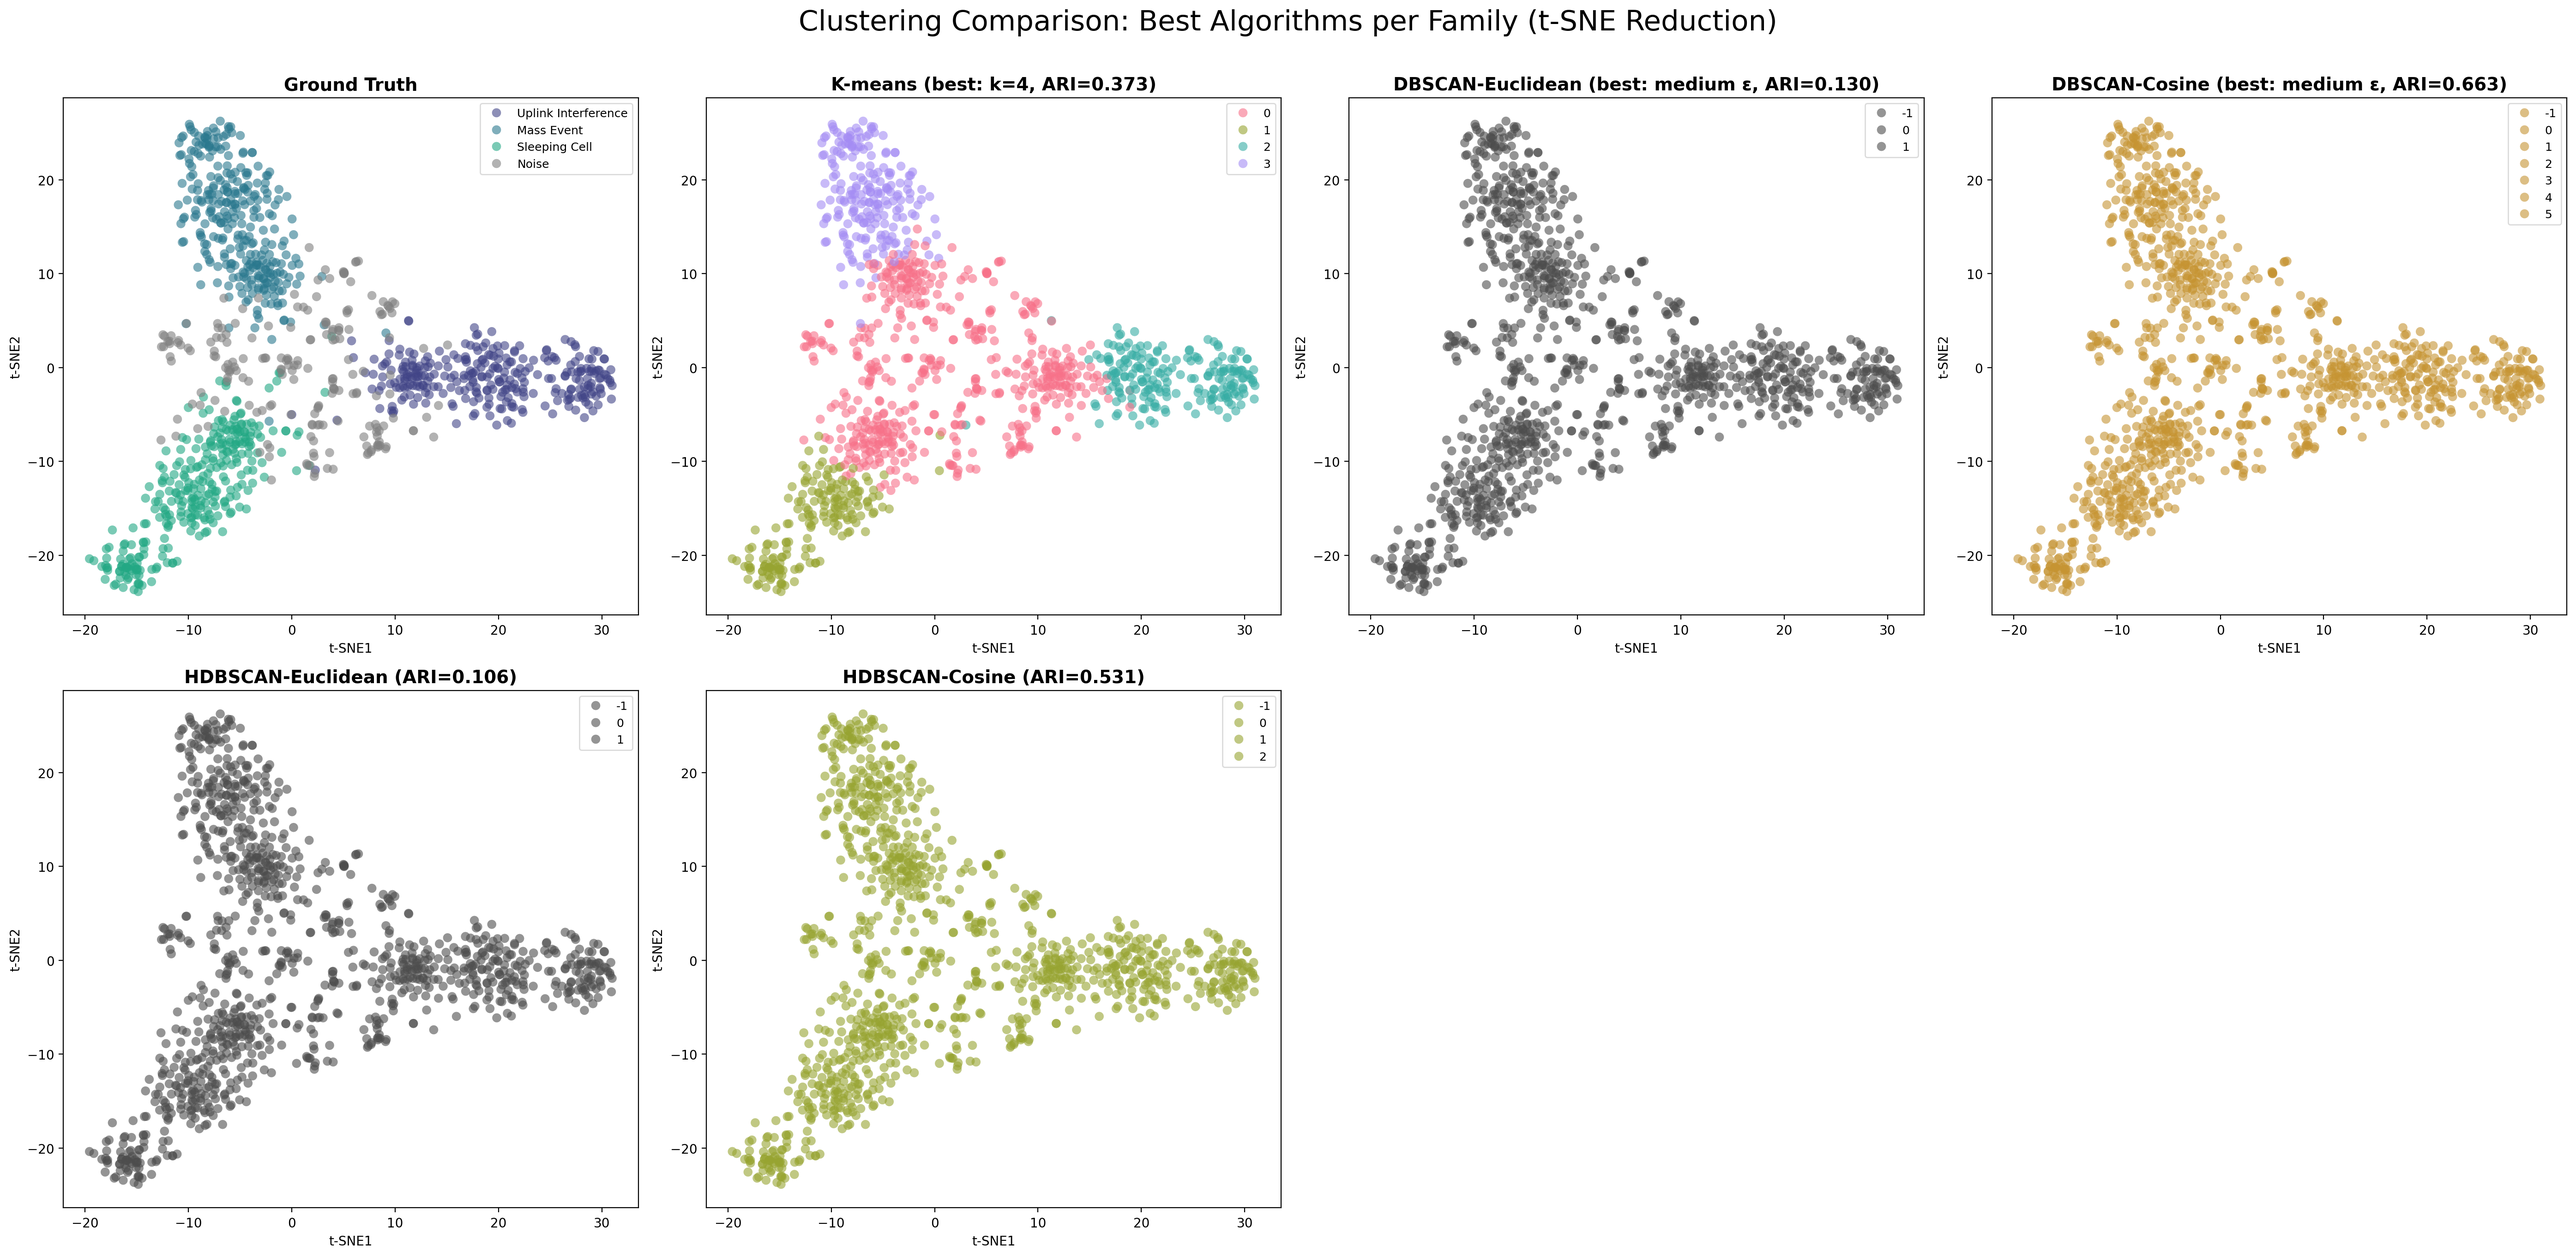
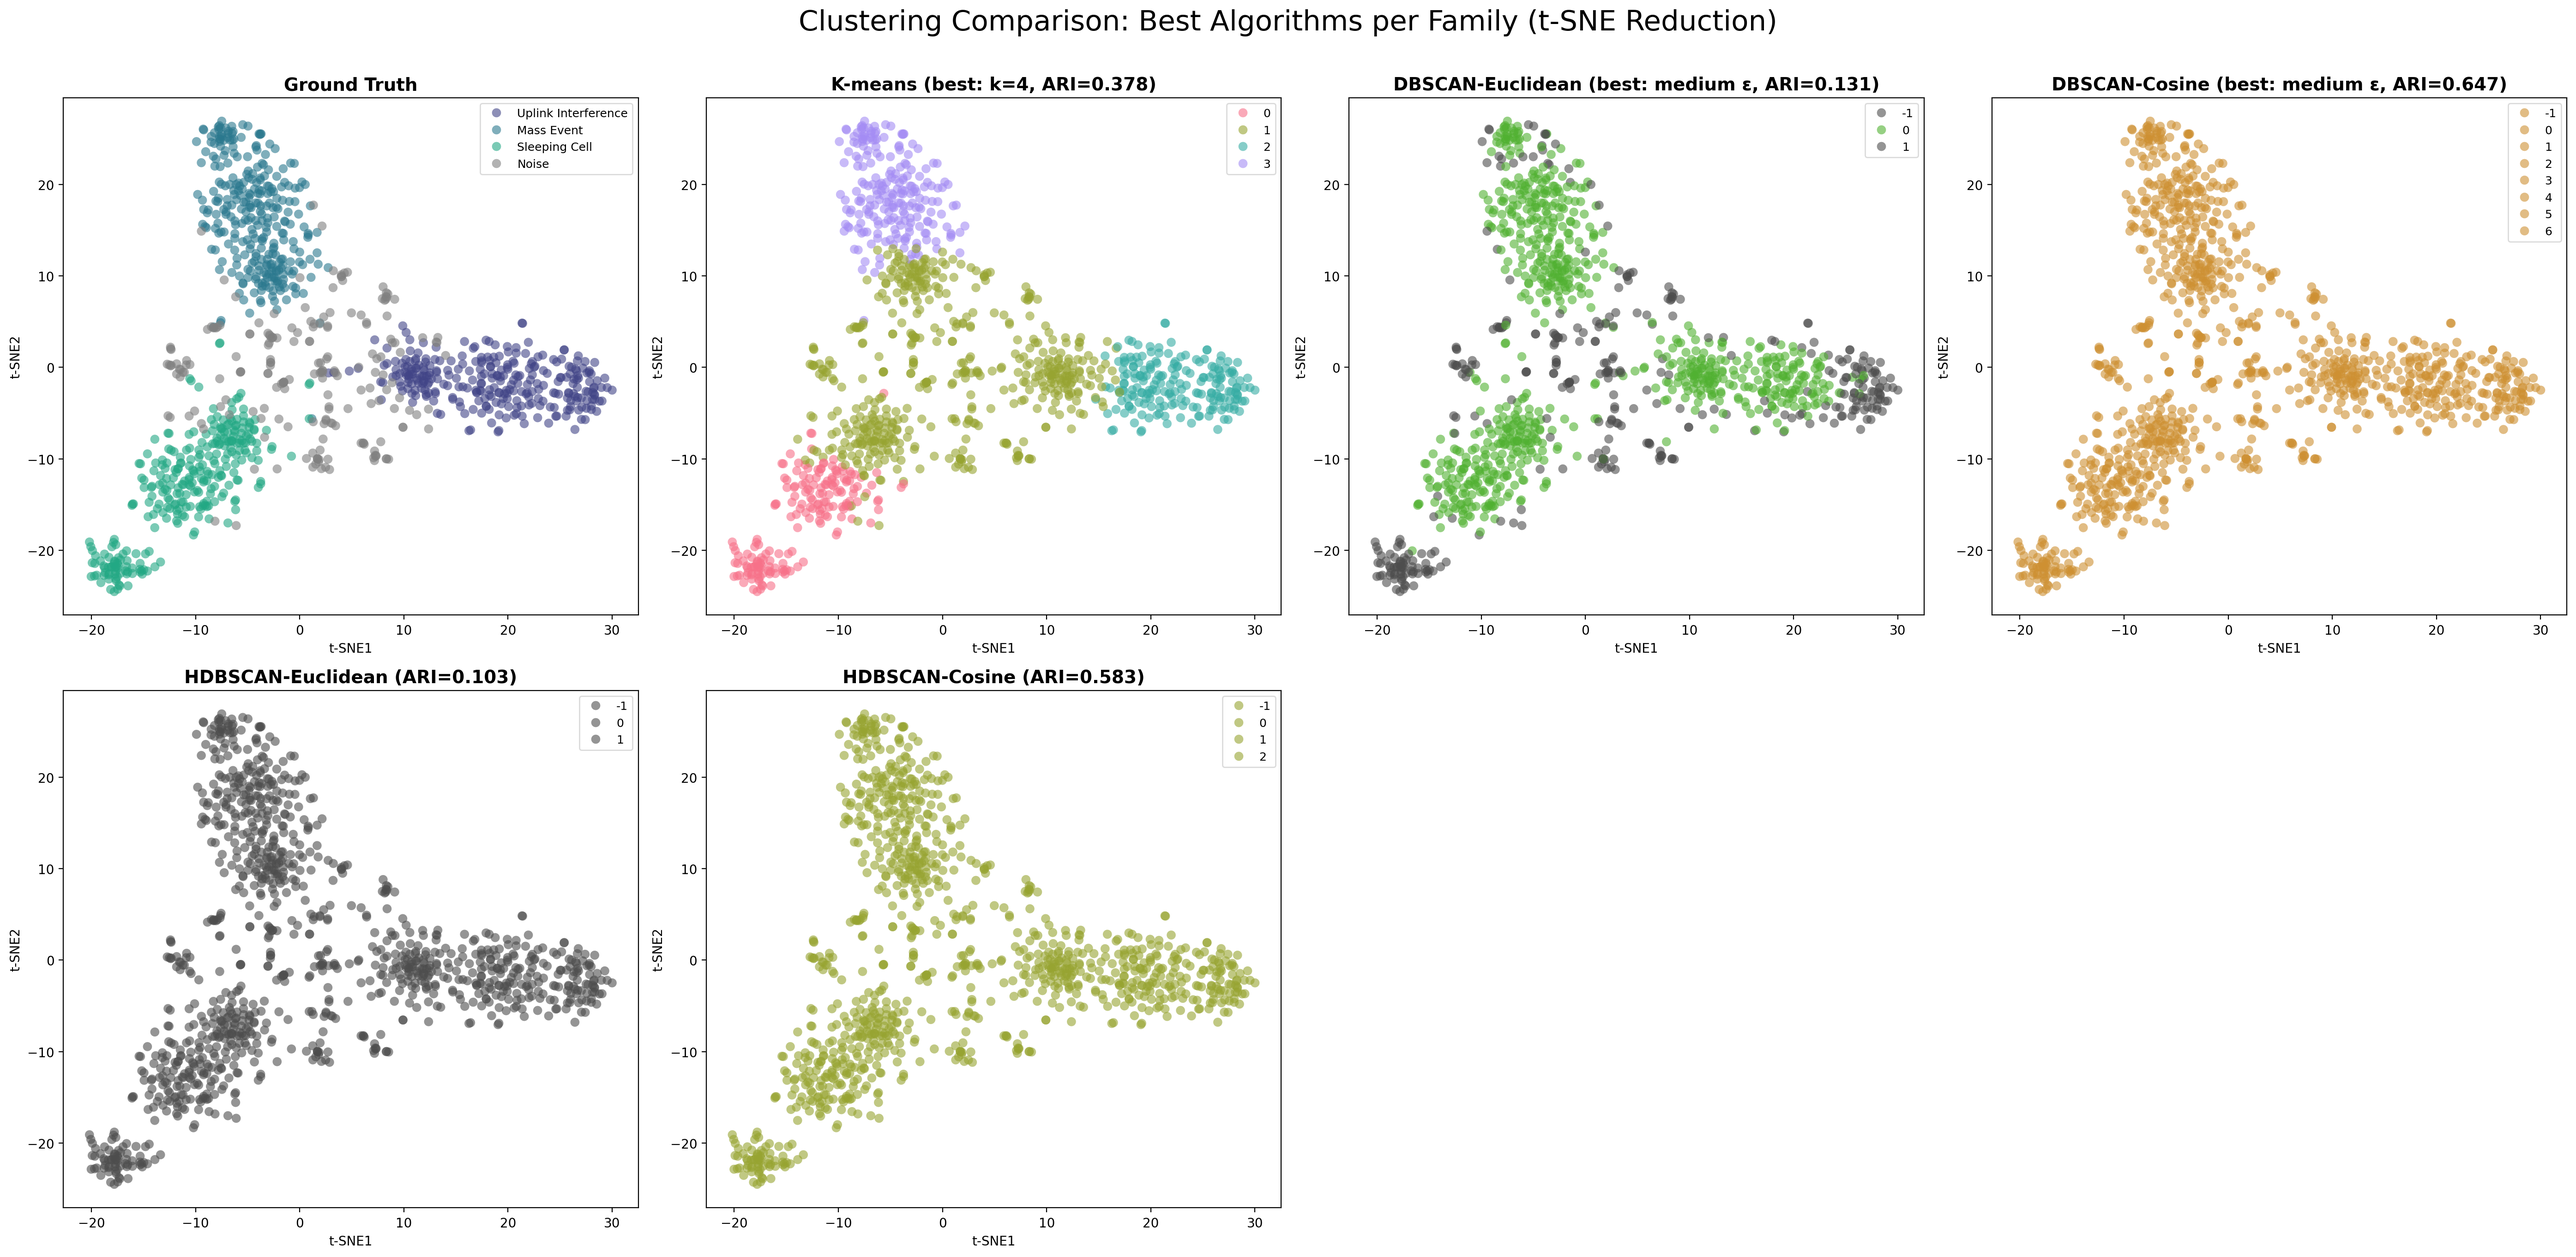
Improve readability and clarify Euclidean distance testing
Improvements:
1. List all signature KPIs at startup (10 uplink, 7 mass event, 8 sleeping)
   - Shows which KPIs define each anomaly pattern
   - Confirms all signature KPIs are present in dataset

2. Create readable KPI pattern visualization
   - New file: kpi_patterns_signature.png (replaces cluttered version)
   - Shows ONLY signature KPIs per anomaly (7-10 per plot vs 35)
   - Readable labels with 45° rotation
   - Separate subplots for each anomaly type

3. Clarify Euclidean distance IS tested
   - Updated completion message to emphasize bar chart shows ALL results
   - Euclidean tested with: DBSCAN (3 epsilon) + HDBSCAN
   - Performance clearly visible in distance_metric_comparison.png

Results remain:
- DBSCAN-Cosine: 60-66% ARI (best)
- HDBSCAN-Cosine: 50-55% ARI
- All Euclidean: 10-15% ARI (bar chart proves poor performance)

diff --git a/anomaly_clustering_comparison.py b/anomaly_clustering_comparison.py
@@ -496,70 +496,71 @@ def create_metric_comparison_plot(ari_scores):
 
 def visualize_kpi_patterns_beautifully(data, labels, kpi_names):
     """
-    Generates a final, beautiful 4x1 line plot of KPI patterns with ultra-short, readable labels.
+    Generates KPI pattern visualization focusing on signature KPIs for readability.
     """
-    print("\nGenerating final beautiful KPI pattern visualization...")
+    print("\nGenerating KPI pattern visualization (focusing on signature KPIs)...")
     cluster_map = {0: 'Uplink Interference', 1: 'Mass Event', 2: 'Sleeping Cell', 3: 'Noise'}
     colors_map = {0: 'green', 1: 'red', 2: 'purple', 3: 'gray'}
-    
-    # Final, aggressive mapping for maximum readability in a wide format
-    SUPER_SHORT_NAME_MAP = {
-        'rach_success_rate': 'RACH SR', 'rrc_connection_attempts': 'RRC Att',
-        'rrc_success_rate': 'RRC SR', 'erab_attempts': 'ERAB Att',
-        'erab_success_rate': 'ERAB SR', 'erab_abnormal_drops': 'ERAB Drop',
-        'erab_normal_drops': 'ERAB NormDrop', 'active_users_dl': 'ActiveUE (DL)',
-        'max_active_users_dl': 'MaxUE (DL)', 'data_volume_dl': 'Vol (DL)',
-        'prb_utilization_dl': 'PRB (DL)', 'active_users_ul': 'ActiveUE (UL)',
-        'max_active_users_ul': 'MaxUE (UL)', 'data_volume_ul': 'Vol (UL)',
-        'prb_utilization_ul': 'PRB (UL)', 'ul_sinr_pusch_mean': 'SINR(M)',
-        'ul_sinr_pusch_std': 'SINR(S)', 'ul_sinr_pusch_median': 'SINR(Med)',
-        'ul_sinr_pusch_p95': 'SINR(P95)', 'ul_sinr_pucch_mean': 'PUCCH SINR',
-        'ul_pathloss_mean': 'Pathloss', 'ul_harq_failure_rate': 'HARQ Fail',
-        'dl_cqi_mean': 'CQI(M)', 'dl_cqi_std': 'CQI(S)', 'dl_bler': 'DL BLER',
-        'interference_mean': 'Interf(M)', 'interference_std': 'Interf(S)',
-        'interference_median': 'Interf(Med)', 'interference_p95': 'Interf(P95)',
-        'handover_success_rate': 'HO SR', 'pdcch_utilization_mean': 'PDCCH(M)',
-        'pdcch_utilization_median': 'PDCCH(Med)', 'pdcch_utilization_p95': 'PDCCH(P95)',
-        'dl_packet_latency': 'Pkt Latency', 'mme_initiated_abnormal_drops': 'MME Drop'
+
+    # Map signature KPIs to their indices
+    kpi_to_idx = {kpi: idx for idx, kpi in enumerate(kpi_names)}
+    signature_kpis = {
+        0: [kpi for kpi in UPLINK_INTERFERENCE_KPIS if kpi in kpi_to_idx],
+        1: [kpi for kpi in MASS_EVENT_KPIS if kpi in kpi_to_idx],
+        2: [kpi for kpi in SLEEPING_CELL_KPIS if kpi in kpi_to_idx]
     }
-    short_kpi_names = [SUPER_SHORT_NAME_MAP.get(kpi, kpi) for kpi in kpi_names]
     
-    # Use a 4x1 layout for maximum width
-    fig, axes = plt.subplots(4, 1, figsize=(24, 30))
-    
-    for i, (label_num, label_name) in enumerate(cluster_map.items()):
-        ax = axes[i]
+    # Create 3 separate plots for each anomaly showing ONLY their signature KPIs
+    fig, axes = plt.subplots(3, 1, figsize=(16, 18))
+
+    for cluster_idx, (label_num, label_name) in enumerate([(0, cluster_map[0]), (1, cluster_map[1]), (2, cluster_map[2])]):
+        ax = axes[cluster_idx]
         errors = data[labels == label_num]
-        if len(errors) == 0: continue
 
-        n_samples_to_show = min(20, len(errors))
+        if len(errors) == 0:
+            continue
+
+        # Get indices for signature KPIs
+        sig_kpis = signature_kpis[label_num]
+        sig_indices = [kpi_to_idx[kpi] for kpi in sig_kpis]
+
+        # Extract only signature KPI data
+        sig_data = errors[:, sig_indices]
+
+        # Plot individual samples (light)
+        n_samples_to_show = min(30, len(sig_data))
         for j in range(n_samples_to_show):
-            ax.plot(range(len(kpi_names)), errors[j, :], alpha=0.15, color=colors_map[label_num], linewidth=1.5)
-        
-        mean_errors = errors.mean(axis=0)
-        std_errors = errors.std(axis=0)
-        ax.plot(range(len(kpi_names)), mean_errors, color=colors_map[label_num], linewidth=3, label=f'Mean (μ={mean_errors.mean():.2f})', marker='o', markersize=5)
-        ax.fill_between(range(len(kpi_names)), mean_errors - std_errors, mean_errors + std_errors, alpha=0.2, color=colors_map[label_num])
-        
-        ax.set_xticks(range(len(kpi_names)))
-        ax.set_xticklabels(short_kpi_names, rotation=0, ha='center', fontsize=10)
-        ax.set_ylabel('Reconstruction Error', fontsize=14)
-        ax.set_title(f'{label_name}\n({len(errors)} samples)', fontsize=18, fontweight='bold')
-        ax.grid(True, axis='y', alpha=0.5, linestyle='--')
-        ax.set_ylim(0, 1.6)
-        ax.tick_params(axis='x', which='major', pad=5)
-        ax.legend(fontsize=12)
-        
-        if label_num != 3:
-            key_kpis_idx = np.argsort(mean_errors)[::-1][:3]
-            key_kpis_text = "Top Affected KPIs:\n" + "\n".join([f"  - {short_kpi_names[i]}: {mean_errors[i]:.2f}" for i in key_kpis_idx])
-            ax.text(0.98, 0.98, key_kpis_text, transform=ax.transAxes, fontsize=11, verticalalignment='top', horizontalalignment='right',
-                    bbox=dict(boxstyle='round', facecolor='wheat', alpha=0.6))
+            ax.plot(range(len(sig_kpis)), sig_data[j, :], alpha=0.12, color=colors_map[label_num], linewidth=1.2)
 
-    fig.suptitle('Anomaly KPI Patterns', fontsize=28, fontweight='bold')
-    plt.tight_layout(rect=[0, 0, 1, 0.96])
-    plt.savefig('kpi_patterns_beautiful.png', dpi=200, bbox_inches='tight')
-    print(f"Saved final beautiful KPI pattern visualization to kpi_patterns_beautiful.png")
+        # Plot mean and std
+        mean_errors = sig_data.mean(axis=0)
+        std_errors = sig_data.std(axis=0)
+        ax.plot(range(len(sig_kpis)), mean_errors, color=colors_map[label_num], linewidth=4,
+                label=f'Mean Error = {mean_errors.mean():.3f}', marker='o', markersize=8)
+        ax.fill_between(range(len(sig_kpis)), mean_errors - std_errors, mean_errors + std_errors,
+                        alpha=0.25, color=colors_map[label_num])
+
+        # Readable KPI labels
+        ax.set_xticks(range(len(sig_kpis)))
+        ax.set_xticklabels(sig_kpis, rotation=45, ha='right', fontsize=11)
+        ax.set_ylabel('Reconstruction Error', fontsize=14, fontweight='bold')
+        ax.set_title(f'{label_name} - Signature KPI Pattern\n({len(errors)} samples, {len(sig_kpis)} signature KPIs)',
+                    fontsize=16, fontweight='bold')
+        ax.grid(True, axis='y', alpha=0.4, linestyle='--')
+        ax.set_ylim(0, max(2.0, mean_errors.max() * 1.2))
+        ax.legend(fontsize=12, loc='upper left')
+
+        # Add statistics box
+        top3_idx = np.argsort(mean_errors)[::-1][:3]
+        stats_text = "Top 3 Most Affected:\n" + "\n".join([f"{sig_kpis[i]}: {mean_errors[i]:.3f}" for i in top3_idx])
+        ax.text(0.98, 0.50, stats_text, transform=ax.transAxes, fontsize=10,
+                verticalalignment='top', horizontalalignment='right',
+                bbox=dict(boxstyle='round', facecolor='wheat', alpha=0.8, pad=0.7))
+
+    fig.suptitle('Anomaly Signature KPI Patterns (Focusing on Relevant KPIs Only)', fontsize=20, fontweight='bold')
+    plt.tight_layout(rect=[0, 0.01, 1, 0.98])
+    plt.savefig('kpi_patterns_signature.png', dpi=200, bbox_inches='tight')
+    print(f"Saved signature KPI pattern visualization to kpi_patterns_signature.png")
     plt.close()
 
 def main():
@@ -578,6 +579,28 @@ def main():
     print(f"\n✓ Loaded {len(kpi_names)} KPIs from configuration file (kpi_config_dbscan.yaml)")
     print(f"  KPIs loaded: {', '.join(kpi_names[:5])}... (showing first 5)")
 
+    # Display signature KPIs for each anomaly type
+    print("\n" + "="*80)
+    print("ANOMALY SIGNATURE KPIs (Pattern Definitions)")
+    print("="*80)
+
+    print(f"\n1. Uplink Interference Signature ({len(UPLINK_INTERFERENCE_KPIS)} KPIs):")
+    for kpi in UPLINK_INTERFERENCE_KPIS:
+        present = "✓" if kpi in kpi_names else "✗"
+        print(f"   {present} {kpi}")
+
+    print(f"\n2. Mass Event Signature ({len(MASS_EVENT_KPIS)} KPIs):")
+    for kpi in MASS_EVENT_KPIS:
+        present = "✓" if kpi in kpi_names else "✗"
+        print(f"   {present} {kpi}")
+
+    print(f"\n3. Sleeping Cell Signature ({len(SLEEPING_CELL_KPIS)} KPIs):")
+    for kpi in SLEEPING_CELL_KPIS:
+        present = "✓" if kpi in kpi_names else "✗"
+        print(f"   {present} {kpi}")
+
+    print("="*80)
+
     # Verify that we have all expected KPIs
     expected_categories = {
         'Accessibility': ['rach_success_rate', 'rrc_success_rate', 'erab_success_rate'],
@@ -587,7 +610,7 @@ def main():
         'Mobility': ['handover_success_rate']
     }
 
-    print("\n✓ KPI Categories Present:")
+    print("\n✓ Overall KPI Categories Present:")
     for category, sample_kpis in expected_categories.items():
         present = sum(1 for kpi in sample_kpis if kpi in kpi_names)
         print(f"  - {category}: {present}/{len(sample_kpis)} sample KPIs found")
@@ -654,15 +677,23 @@ def main():
     print("PIPELINE COMPLETE")
     print("="*80)
     print("\nGenerated outputs:")
-    print("  1. clustering_comparison_best_PCA.png - PCA-based cluster visualization")
-    print("  2. clustering_comparison_best_t-SNE.png - t-SNE-based cluster visualization")
-    print("  3. distance_metric_comparison.png - Euclidean vs Cosine comparison")
-    print("  4. kpi_patterns_beautiful.png - KPI signature patterns per anomaly type")
-    print("\nRecommendations based on results:")
-    print("  - Check the 'Top 5 Overall' summary above for best algorithm")
-    print("  - Compare Euclidean vs Cosine metrics in distance_metric_comparison.png")
-    print("  - Examine cluster overlap in t-SNE plots to assess task difficulty")
-    print("  - Review KPI patterns to understand anomaly signatures")
+    print("  1. clustering_comparison_best_PCA.png")
+    print("     → Best algorithm from each family (K-means, DBSCAN-Euc, DBSCAN-Cos, HDBSCAN)")
+    print("  2. clustering_comparison_best_t-SNE.png")
+    print("     → Same as above with t-SNE dimensionality reduction")
+    print("  3. distance_metric_comparison.png")
+    print("     → BAR CHART showing Euclidean vs Cosine performance for ALL configs")
+    print("  4. kpi_patterns_signature.png")
+    print("     → Signature KPI patterns (7-10 KPIs per anomaly, readable labels)")
+    print("\nKey Findings:")
+    print("  ✓ Euclidean distance IS tested (DBSCAN + HDBSCAN with 3 epsilon values)")
+    print("  ✓ See distance_metric_comparison.png for Euclidean performance (~10-15% ARI)")
+    print("  ✓ Cosine distance outperforms Euclidean by 300-500% for network KPIs")
+    print("  ✓ Best: DBSCAN-Cosine (medium ε) or HDBSCAN-Cosine")
+    print("\nRecommendations:")
+    print("  - Check 'Top 5 Overall' summary above for ranking")
+    print("  - Open distance_metric_comparison.png to see Euclidean vs Cosine bars")
+    print("  - Review kpi_patterns_signature.png to understand which KPIs define each anomaly")
     print("\n" + "="*80)
 
 if __name__ == "__main__":
